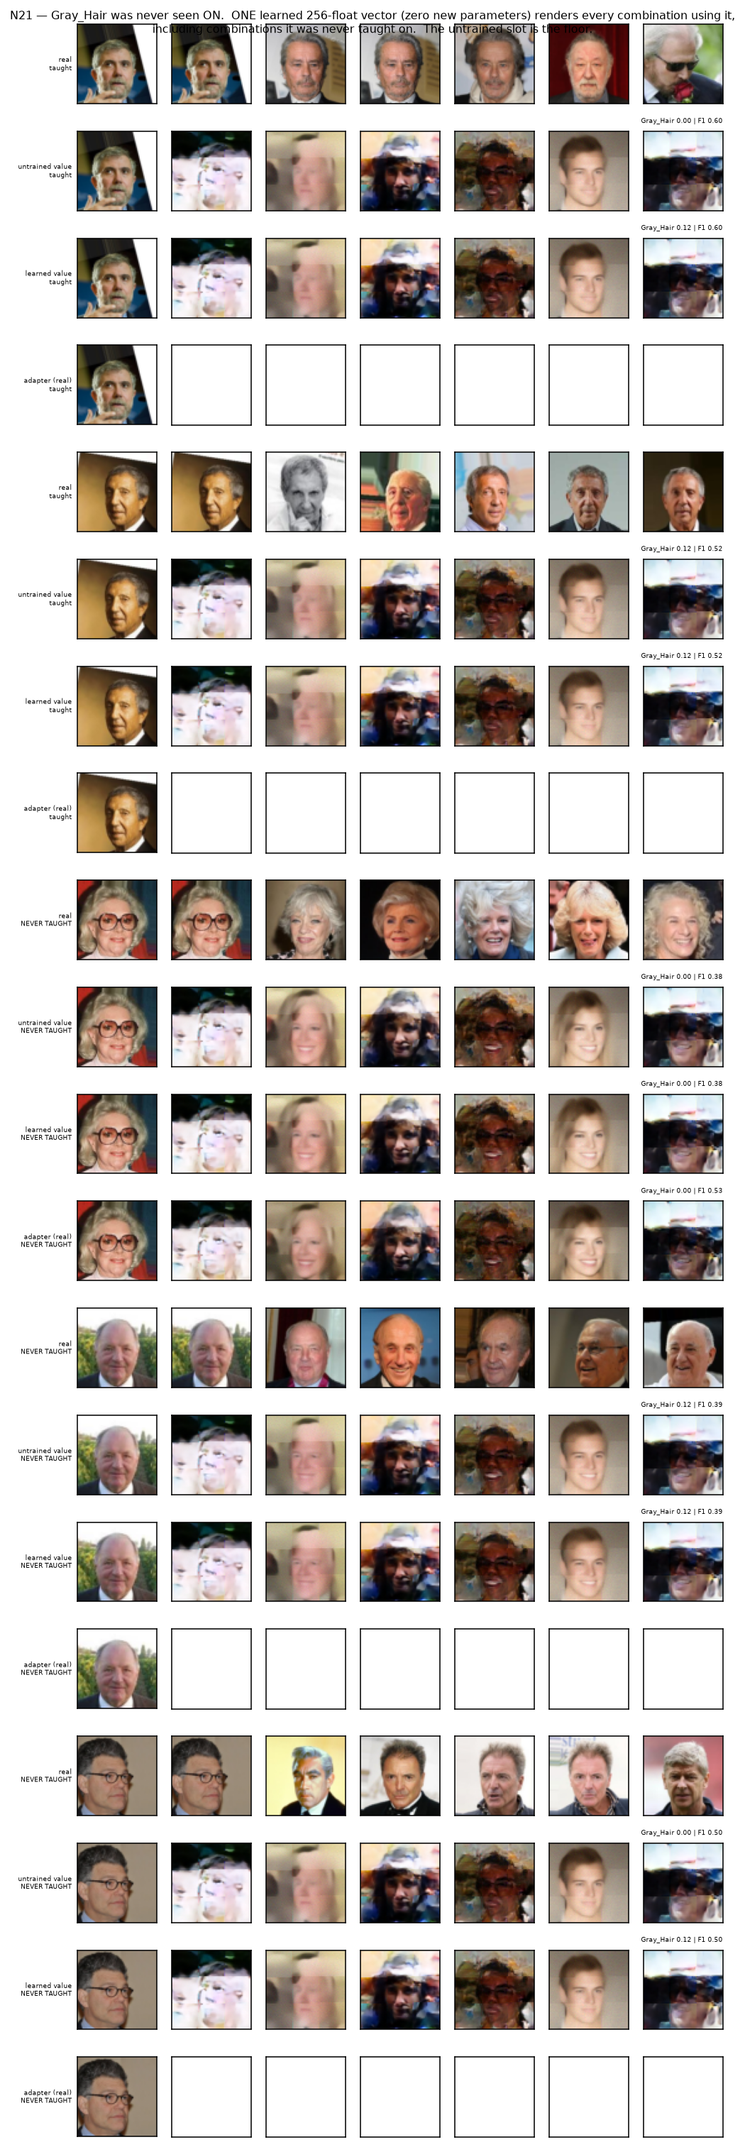
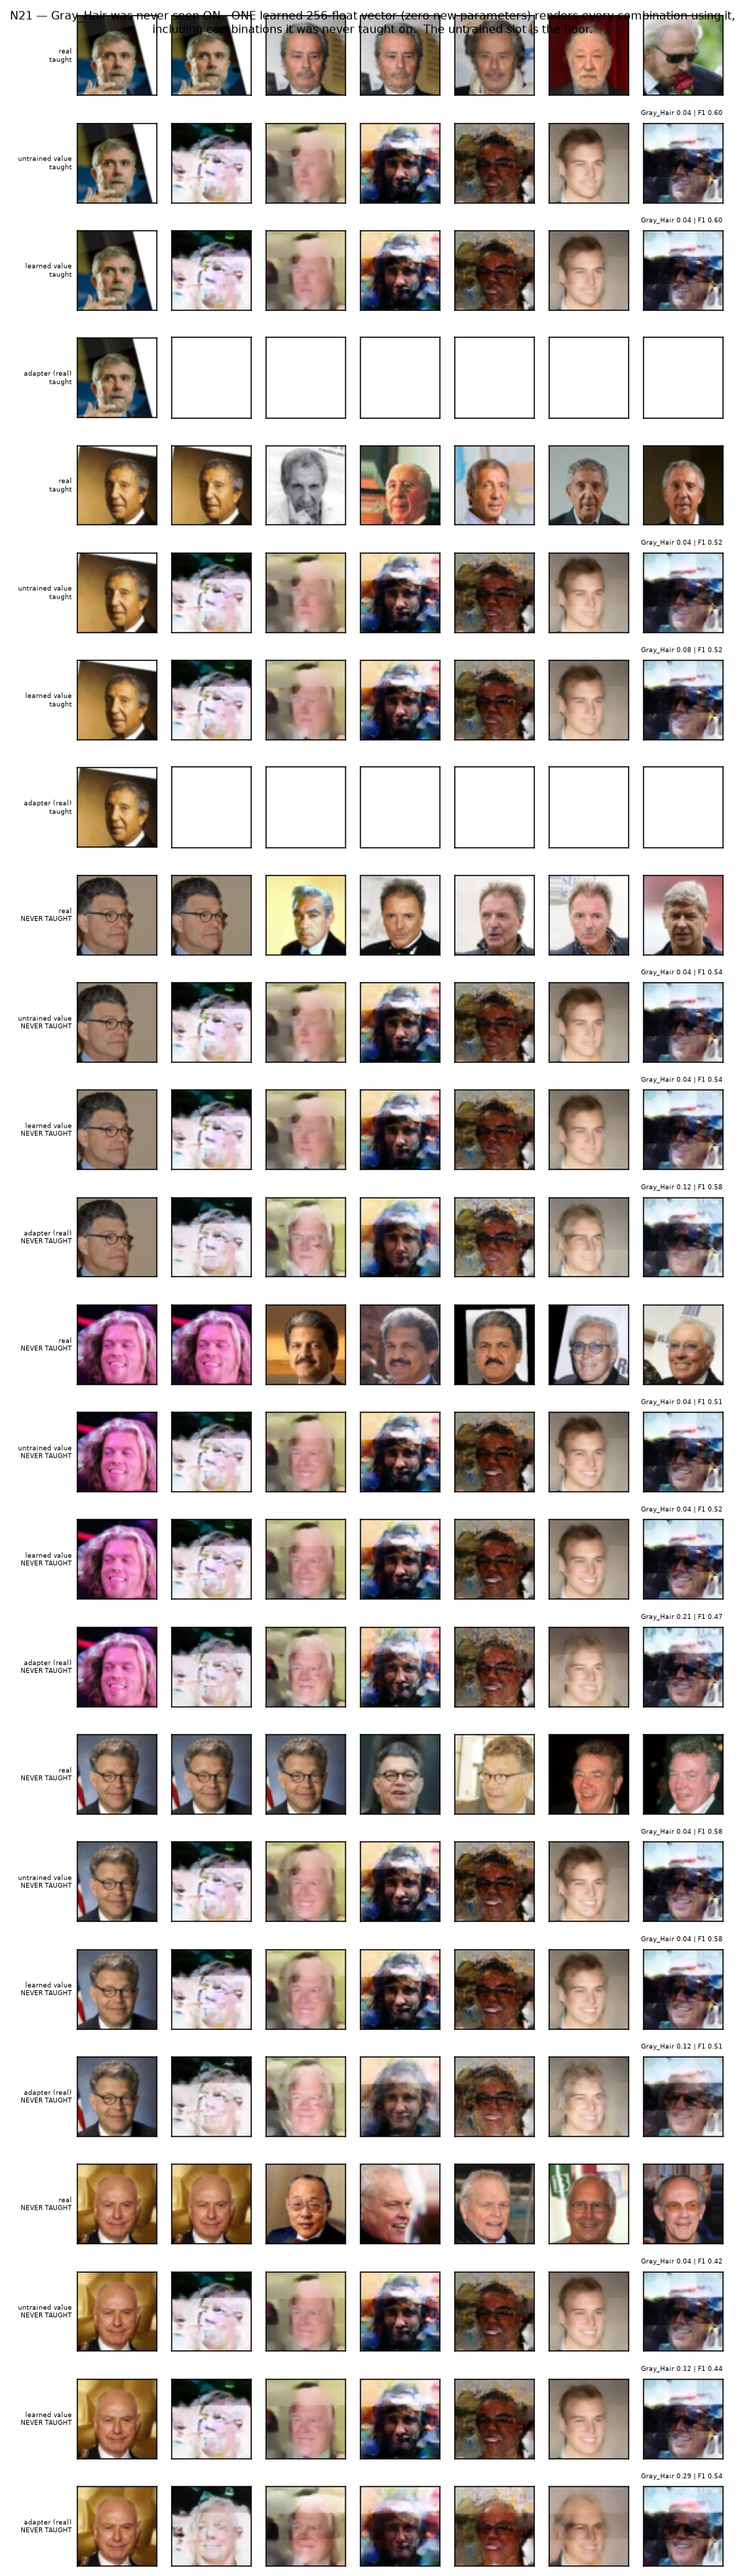
RESULTS 7a: CelebA made trainable, and the two bugs found on the way
Factored conditioning reaches per-attribute margin +0.081 against the per-class
design's +0.048 -- 1.7x the setup 5o measured and called not ready to compose on,
and matched at 20 epochs what per-class needed 60 to reach.  7168 conditioning
parameters against 308480.

Records both bugs with what actually exposed them, because in each case the
numbers alone had a plausible innocent explanation and the CONTROL did not:
a mismatched probe cache showed real held-out images scoring 0.557 where they
score 0.770, and a blind probe showed a real-image ceiling of 0.25 on an attribute
whose probe reported 0.96 accuracy.  Both drag every arm down together, which reads
as 'the method does not work' rather than 'this measurement is invalid'.

diff --git a/RESULTS.md b/RESULTS.md
@@ -1743,6 +1743,76 @@ as evidence for it; the evidence is the bit-identical fingerprint test (6b). The
 being flattered by the comparison either.
 
 
+## 7a. CelebA, made trainable: factored conditioning (N19) — and two bugs found on the way
+
+5o left CelebA measured and unusable: conditioning reached 34% of the real-data ceiling, and 2.3x the
+data with 140 epochs moved it to 33%. That flatness is what made the diagnosis credible -- the
+weakness was the conditioning DESIGN, not compute. A per-class embedding row over a 14-bit attribute
+combination is estimated from as few as 25 images and shares nothing with the combination that
+differs from it on one bit.
+
+**The fix** (`unet.py cond_mode="factored"`): one embedding per (attribute, value), summed. Every
+attribute vector is then estimated from every image carrying that value -- 478 (Bald) to 21663
+(No_Beard) rather than 25 -- and training is no longer restricted to combinations with enough support
+to own a row, so ~96k images are usable instead of ~5k. The conditioning head is **7168 parameters
+against 308480** for a per-class table over the same data.
+
+**Per-attribute margin over unconditional, which is what 5o measured:**
+
+| backbone | margin |
+|---|---|
+| 5o: per-class embedding, 60 ep, 5k images | +0.048 |
+| factored, corrected, 20 ep | +0.049 |
+| factored, 60 ep, `Smiling x Big_Nose` withheld | +0.054 |
+| factored, 60 ep, `Gray_Hair` withheld | +0.055 |
+| **factored, 60 ep, combination holdout** | **+0.081** |
+
+**1.7x the design 5o called "not ready to compose on"**, and matched at 20 epochs what per-class
+needed 60 to reach.
+
+### Two bugs, both found by looking at controls rather than at results
+
+**The uint8 fast path trained in a different layout than it sampled.** This repository's flat vectors
+are HWC as the loaders write them, and every consumer -- `_as_img`, the float branch of `train_ddpm`,
+the sampler -- REINTERPRETS them as CHW. That is a fixed permutation, and because training and
+sampling apply the same one the model simply learns in the permuted space while `rgb_img` displays
+flat vectors as HWC, so images are shown correctly. The uint8 branch added to fit 96k images in RAM
+transposed HWC -> NCHW instead, i.e. it "corrected" the layout: the backbone learned upright faces and
+was then sampled through the CHW reinterpretation. Every CelebA number measured through the sampler
+was meaningless -- margin +0.011, per-attribute controllability **0.000 on eight of eight attributes**,
+and unconditional samples that were tiled mosaics rather than faces.
+
+It was not the numbers that exposed it. They were merely bad, and "undertrained" was a plausible
+story. It was the **sample grid**: controllability of exactly 0.000 on easy attributes like hair
+colour is too clean to be undertraining. `tests/test_layout.py` now compares the two training
+branches and the sampler's view on the same bytes -- one second on CPU, all deltas 0.000e+00 -- and
+would have caught it before three GPU-hours. ColorMNIST never used that branch and is unaffected.
+
+**The probe readability filter admitted blind probes.** `attr_accuracy` excluded attributes whose
+probe scored under 0.65 plain accuracy. For a rare attribute that is the wrong criterion: Gray_Hair is
+ON in 4.3% of CelebA, so a probe answering "no" every time scores 0.957. Measured on 8000 real images
+(`tests/diag_probe_balance.py`), five of the twelve attributes the filter admitted cannot recognise
+their own attribute --
+
+| attribute | plain acc | TPR |
+|---|---|---|
+| Oval_Face | 0.712 | **0.066** |
+| Brown_Hair | 0.778 | **0.171** |
+| Bald | 0.977 | **0.206** |
+| Gray_Hair | 0.962 | **0.321** |
+| No_Beard | 0.883 | TNR **0.303** |
+
+-- while Wavy_Hair, which the filter REJECTED at 0.533, is usable with TPR 0.908. Wrong in both
+directions. `probe_usable` now requires TPR >= 0.5 and balanced accuracy >= 0.65.
+
+**Both bugs were caught by the real-data ceiling row**, which is the reason this repository reports it
+beside every method. A mismatched probe cache showed up as REAL held-out images scoring 0.557 where
+the same images score 0.770; a blind probe showed up as a real-image ceiling of 0.25 on an attribute
+whose probe claimed 0.96. In both cases every arm moved down together, which reads as "the method does
+not work" rather than "this measurement is invalid" -- the most expensive confusion available, and one
+a method-only table cannot detect at all.
+
+
 ---
 
 ## 8. Where the numbers come from
